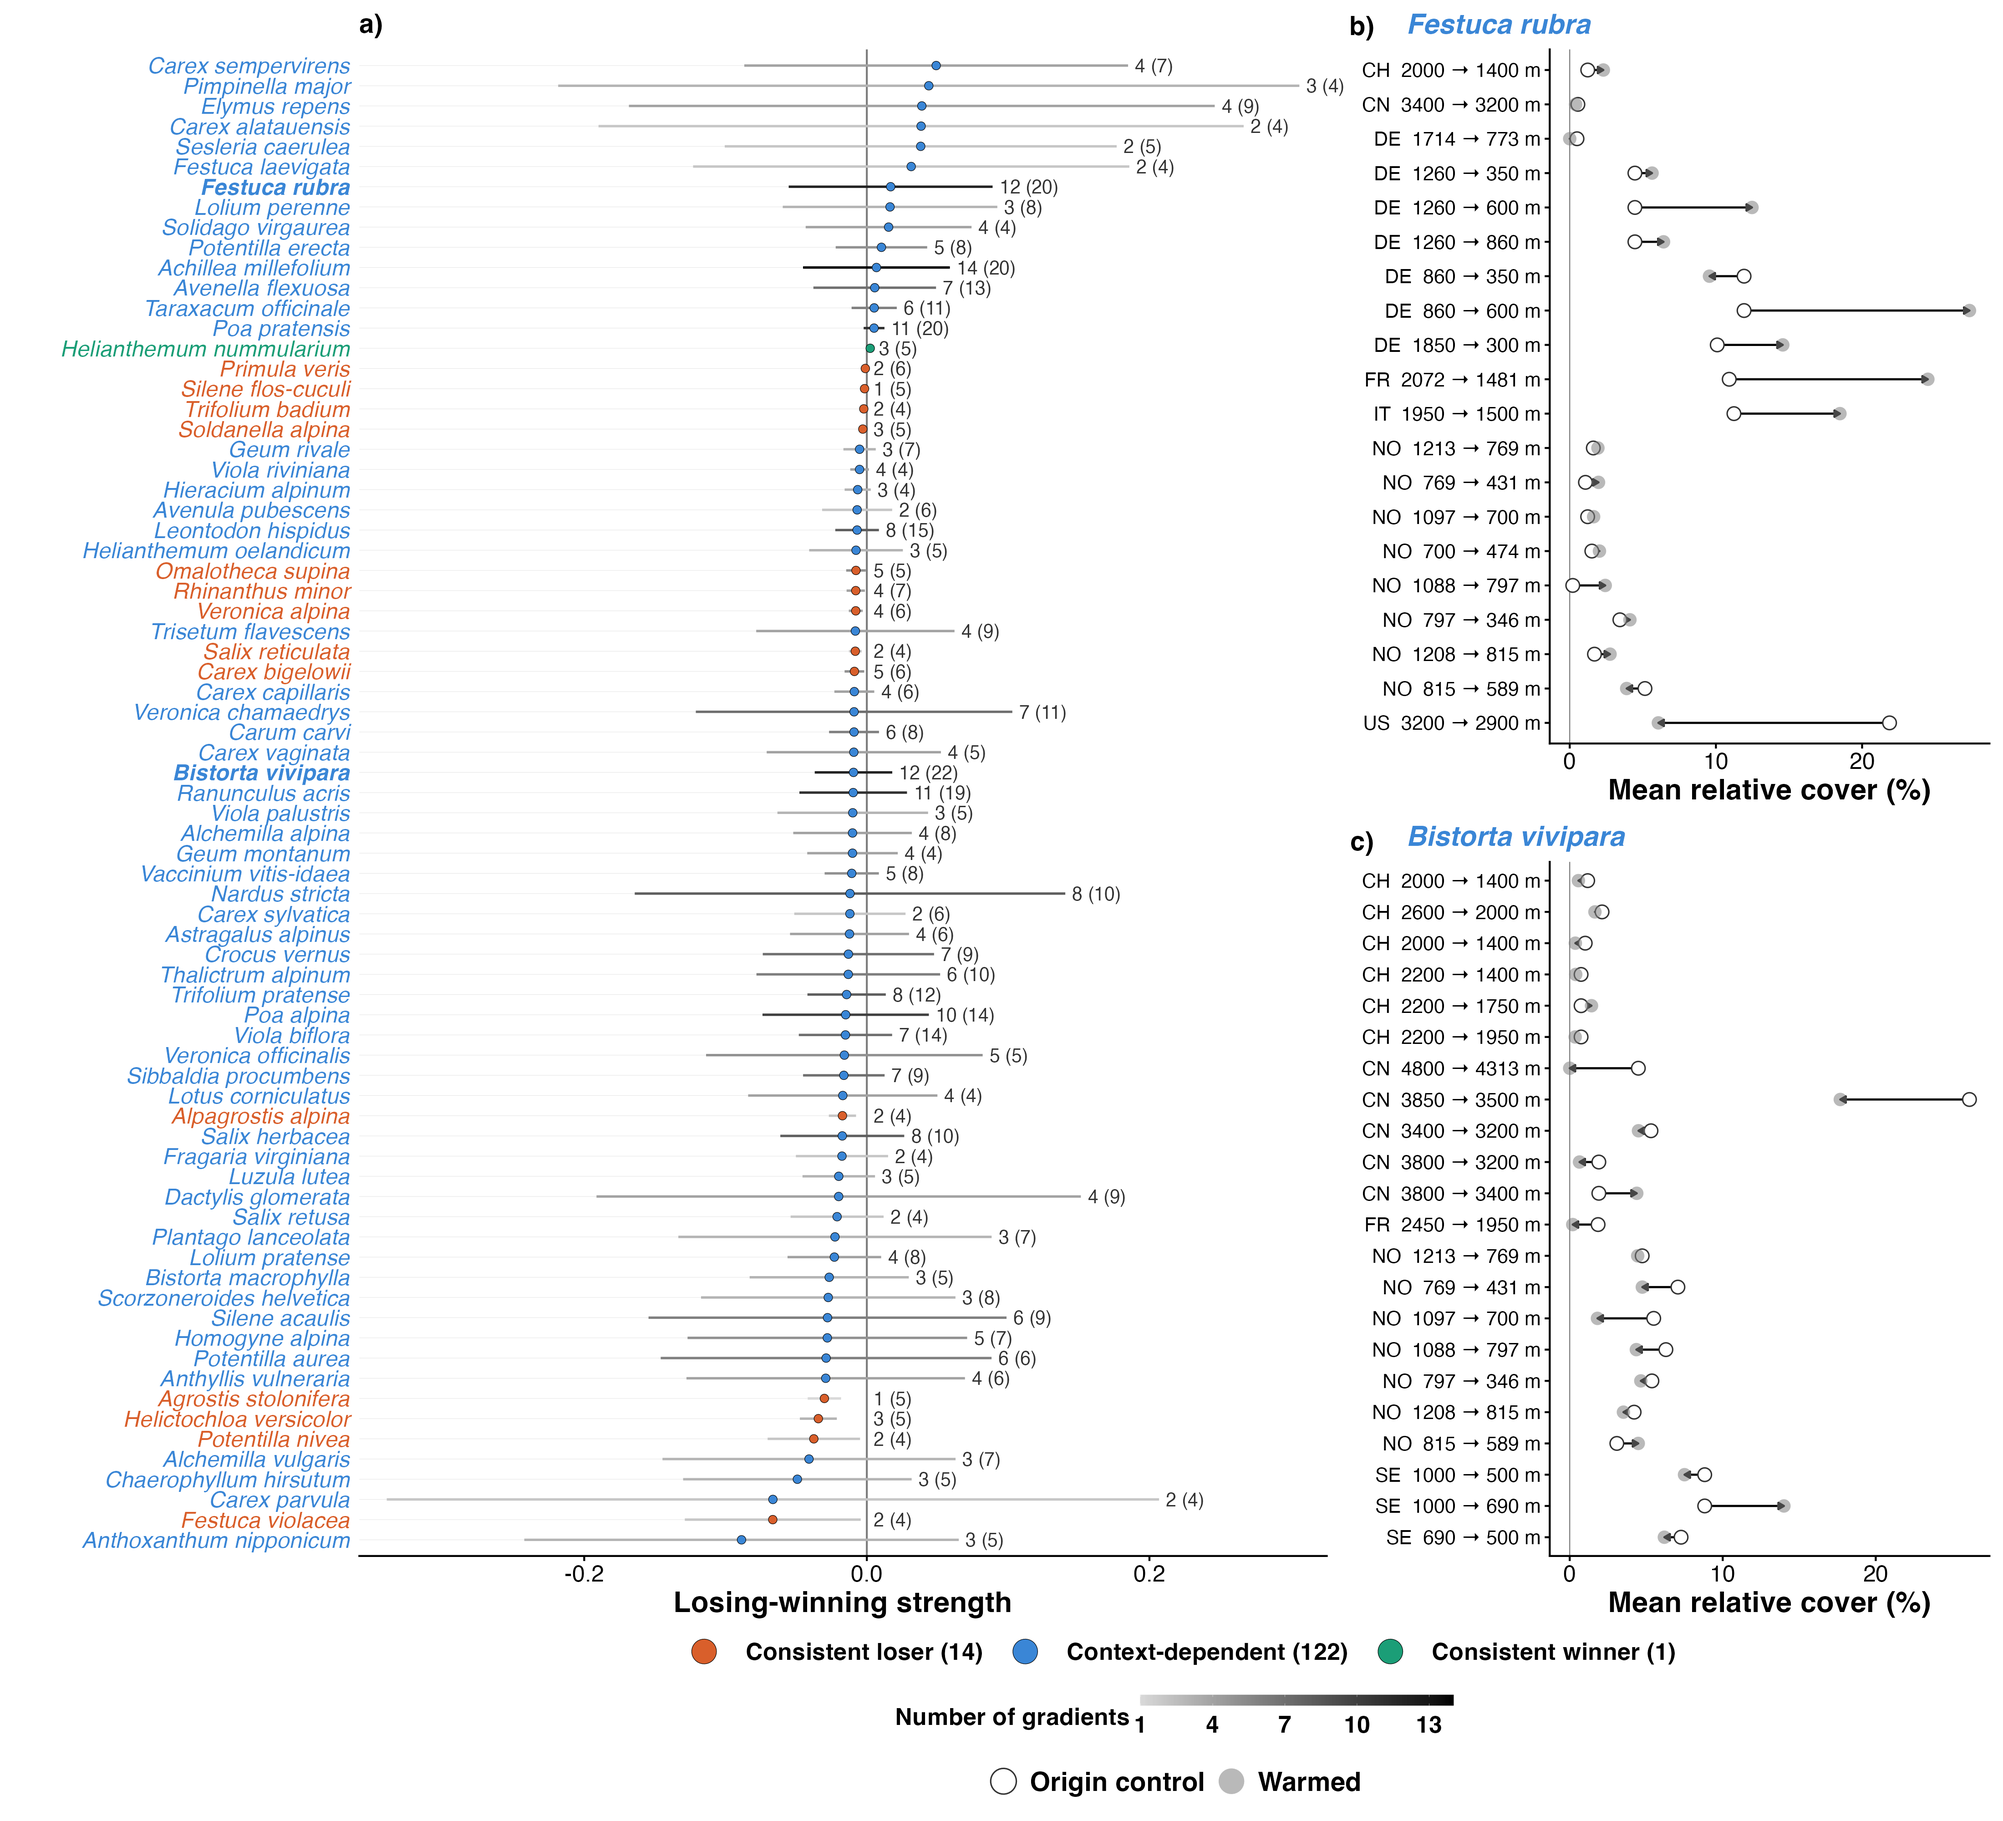
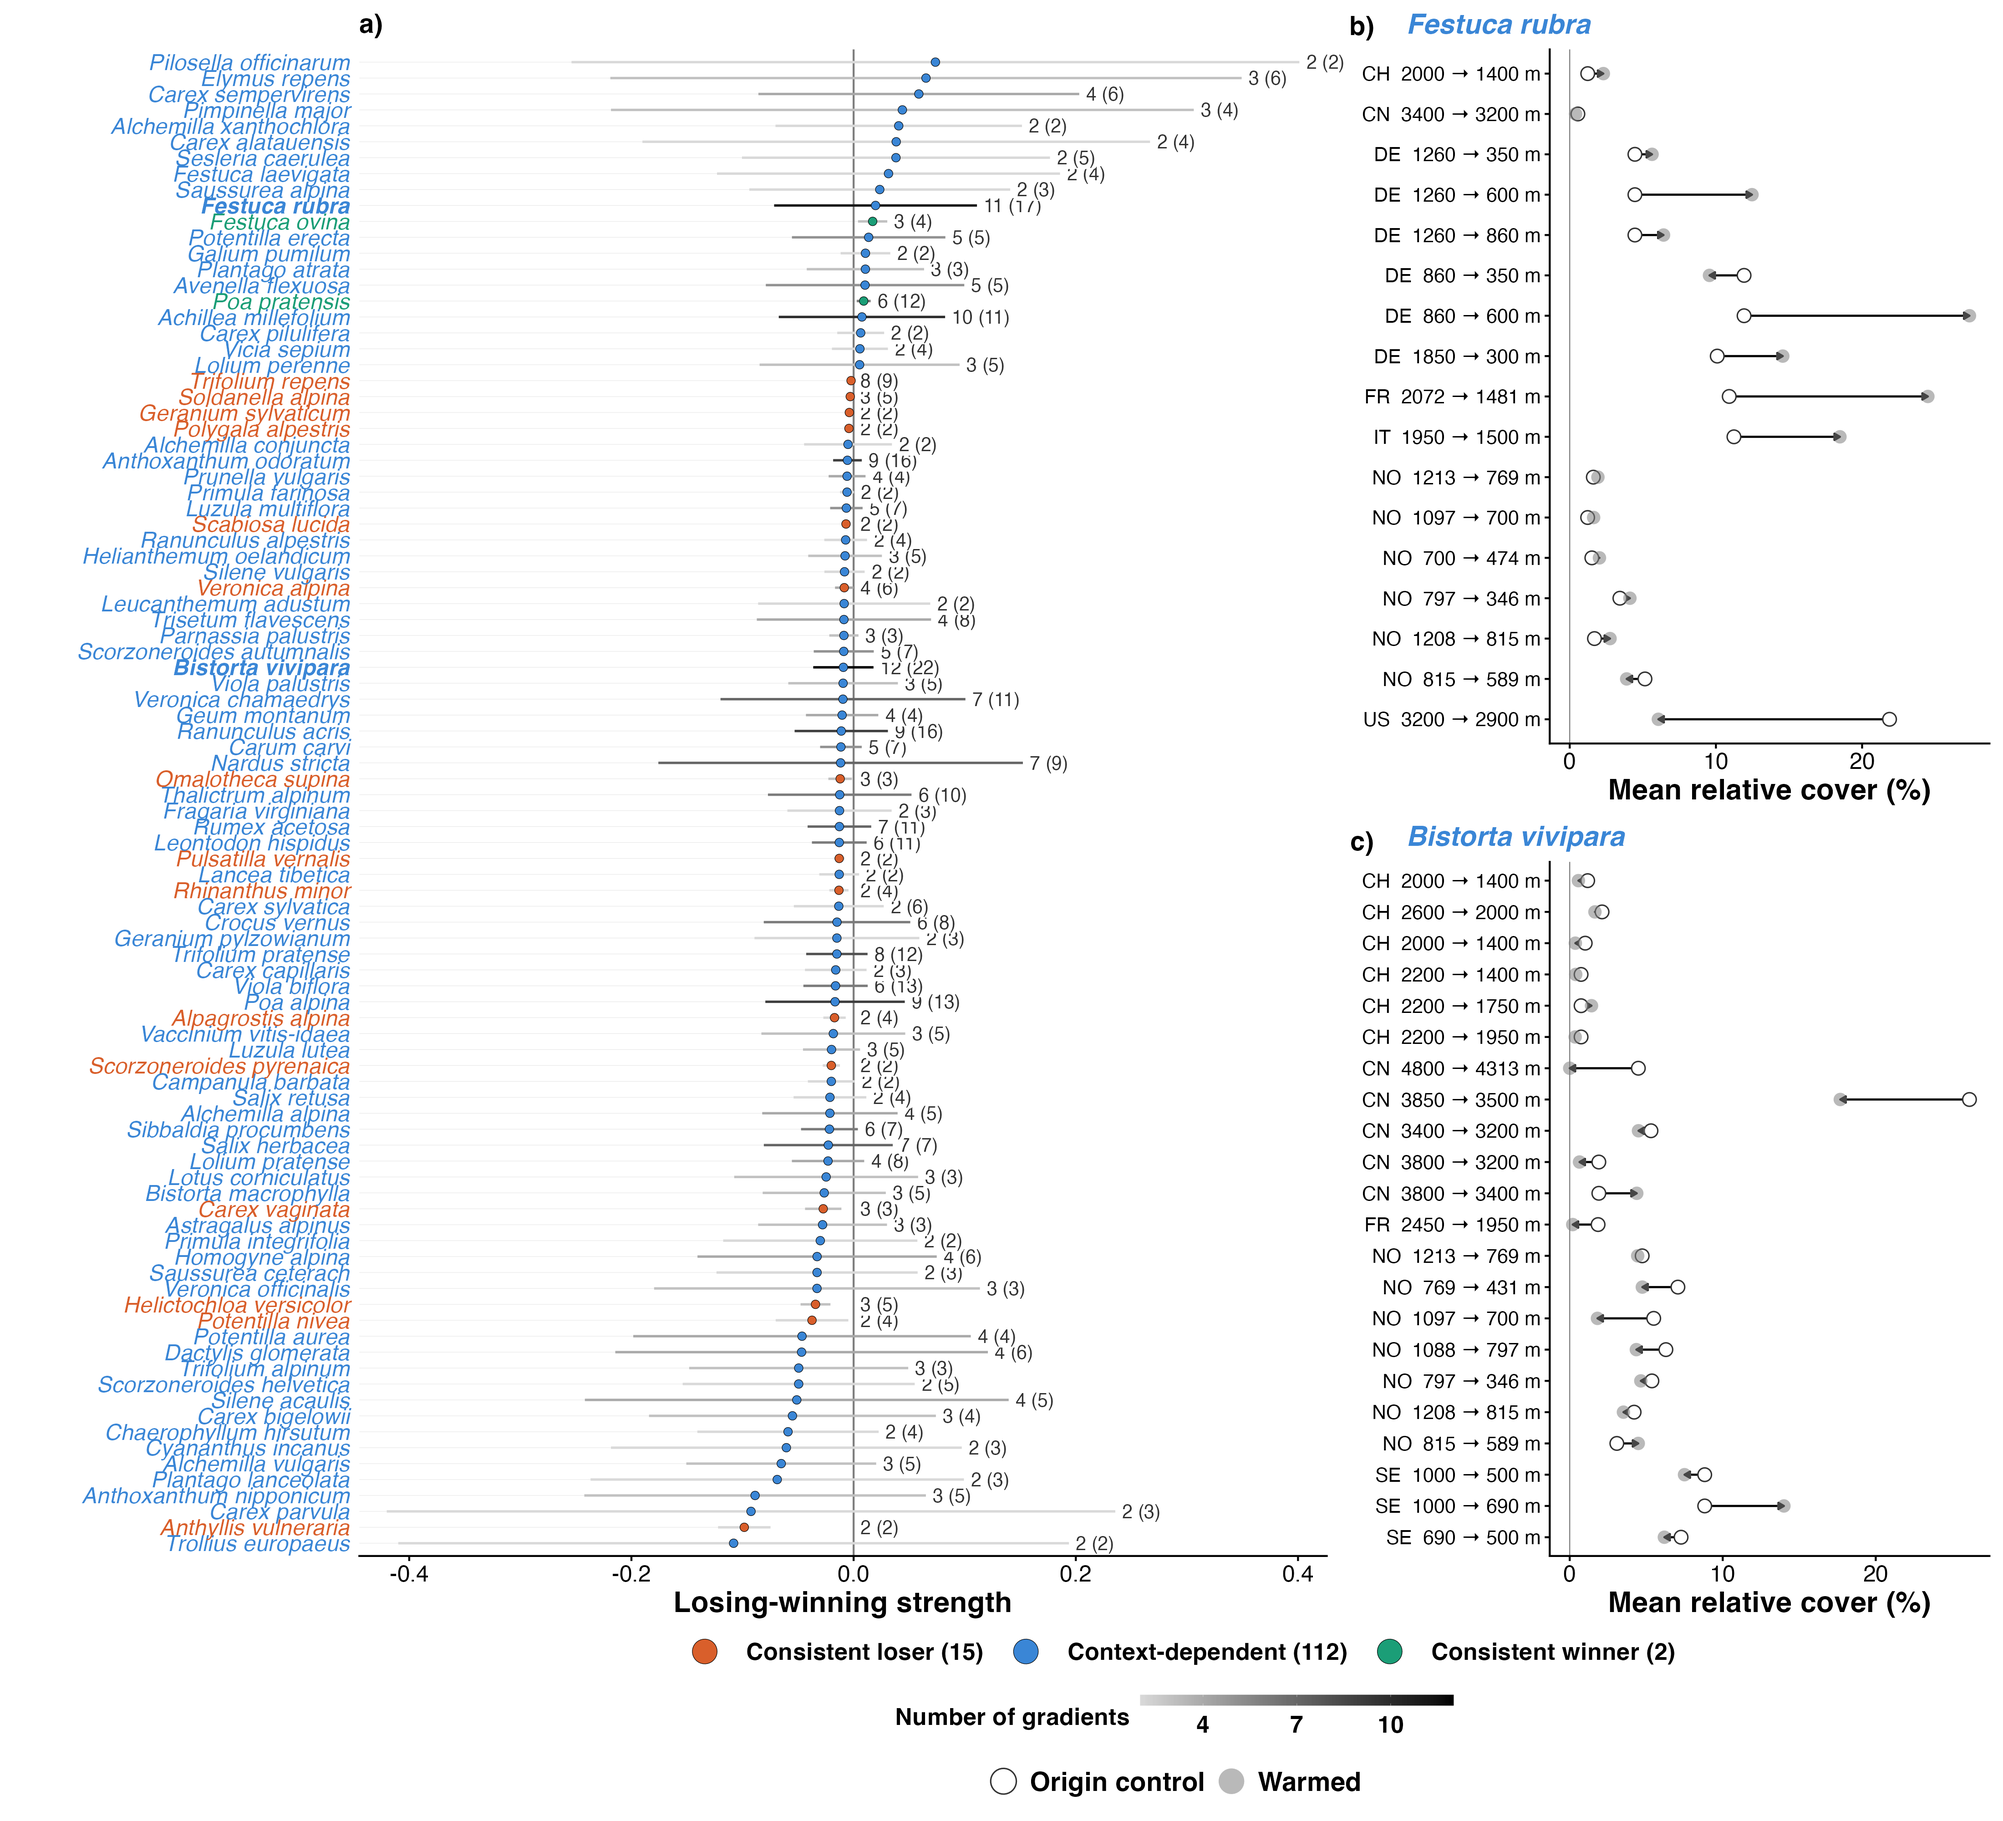
step 04: classification on species in at least 2 gradients (129 species, 676 effects): 15 consistent losers, 2 consistent winners, 112 context-dependent; awaiting review

diff --git a/reports/04_classification.md b/reports/04_classification.md
@@ -1,6 +1,6 @@
 # Step 04: Consistency across experiments (Step C, residents)
 
-For the 137 resident species found in at least four experiments (998 effects in 43 experiments), one `rma.mv` estimated a pooled losing-winning strength per species and a species-specific among-experiment variance, on the strength from year 3 (step 03b). Each species' prediction interval for a new experiment, which carries both its among-experiment variance and the uncertainty of its pooled strength, places it as a consistent winner (interval above zero), a consistent loser (below zero) or context-dependent (spanning zero).
+For the 129 resident species found in at least two gradients (676 effects in 42 experiments), one `rma.mv` estimated a pooled losing-winning strength per species and a species-specific among-experiment variance, on the strength from year 3 (step 03b). Each species' prediction interval for a new experiment, which carries both its among-experiment variance and the uncertainty of its pooled strength, places it as a consistent winner (interval above zero), a consistent loser (below zero) or context-dependent (spanning zero).
 
 ## Model as fitted (for reviewers)
 
@@ -17,52 +17,53 @@ p <- predict(m_s)
 
 | rule | n |
 | --- | --- |
-| effects (step 03b) | 1,655 |
-| species with >= 4 experiments | 137 |
-| their effects | 998 |
-| experiments they occur in | 43 |
-| species with tau2_s estimated at about 0 (< 1e-8) | 40 |
+| effects (step 03b) | 1,004 |
+| species in >= 2 gradients | 129 |
+| their effects | 676 |
+| experiments they occur in | 42 |
+| species with tau2_s estimated at about 0 (< 1e-8) | 31 |
 
 ## Classes
 
 | class | species |
 | --- | --- |
-| Consistent loser | 14 |
-| Context-dependent | 122 |
-| Consistent winner | 1 |
+| Consistent loser | 15 |
+| Context-dependent | 112 |
+| Consistent winner | 2 |
 
 Consistent winners and losers:
 
 | species | class | n_experiments | mu | se_mu | tau | lower | upper |
 | --- | --- | --- | --- | --- | --- | --- | --- |
-| Festuca violacea | Consistent loser | 4 | -0.0666 | 0.0164 | 0.0272 | -0.1288 | -0.0043 |
-| Potentilla nivea | Consistent loser | 4 | -0.0375 | 0.0094 | 0.0138 | -0.0702 | -0.0048 |
-| Helictochloa versicolor | Consistent loser | 5 | -0.0343 | 0.0058 | 0.0033 | -0.0474 | -0.0212 |
-| Agrostis stolonifera | Consistent loser | 5 | -0.0300 | 0.0060 | 0.0000 | -0.0418 | -0.0182 |
-| Alpagrostis alpina | Consistent loser | 4 | -0.0173 | 0.0042 | 0.0026 | -0.0269 | -0.0076 |
-| Carex bigelowii | Consistent loser | 6 | -0.0088 | 0.0035 | 0.0000 | -0.0157 | -0.0018 |
-| Salix reticulata | Consistent loser | 4 | -0.0082 | 0.0023 | 0.0000 | -0.0127 | -0.0037 |
-| Veronica alpina | Consistent loser | 6 | -0.0078 | 0.0025 | 0.0000 | -0.0128 | -0.0029 |
-| Rhinanthus minor | Consistent loser | 7 | -0.0078 | 0.0028 | 0.0018 | -0.0143 | -0.0013 |
-| Omalotheca supina | Consistent loser | 5 | -0.0077 | 0.0029 | 0.0020 | -0.0146 | -0.0008 |
-| Soldanella alpina | Consistent loser | 5 | -0.0028 | 0.0007 | 0.0000 | -0.0041 | -0.0015 |
-| Trifolium badium | Consistent loser | 4 | -0.0022 | 0.0004 | 0.0000 | -0.0029 | -0.0014 |
-| Silene flos-cuculi | Consistent loser | 5 | -0.0016 | 0.0005 | 0.0000 | -0.0026 | -0.0006 |
-| Primula veris | Consistent loser | 6 | -0.0011 | 0.0003 | 0.0000 | -0.0017 | -0.0004 |
-| Helianthemum nummularium | Consistent winner | 5 | 0.0024 | 0.0007 | 0.0000 | 0.0010 | 0.0038 |
+| Anthyllis vulneraria | Consistent loser | 2 | -0.0984 | 0.0112 | 0.0046 | -0.1220 | -0.0748 |
+| Potentilla nivea | Consistent loser | 4 | -0.0374 | 0.0095 | 0.0137 | -0.0701 | -0.0047 |
+| Helictochloa versicolor | Consistent loser | 5 | -0.0343 | 0.0059 | 0.0036 | -0.0478 | -0.0209 |
+| Carex vaginata | Consistent loser | 3 | -0.0274 | 0.0084 | 0.0000 | -0.0437 | -0.0110 |
+| Scorzoneroides pyrenaica | Consistent loser | 2 | -0.0201 | 0.0039 | 0.0000 | -0.0278 | -0.0123 |
+| Alpagrostis alpina | Consistent loser | 4 | -0.0172 | 0.0042 | 0.0029 | -0.0272 | -0.0071 |
+| Rhinanthus minor | Consistent loser | 4 | -0.0132 | 0.0044 | 0.0000 | -0.0218 | -0.0046 |
+| Pulsatilla vernalis | Consistent loser | 2 | -0.0130 | 0.0024 | 0.0000 | -0.0177 | -0.0082 |
+| Omalotheca supina | Consistent loser | 3 | -0.0121 | 0.0054 | 0.0000 | -0.0227 | -0.0014 |
+| Veronica alpina | Consistent loser | 6 | -0.0084 | 0.0042 | 0.0000 | -0.0167 | -0.0001 |
+| Scabiosa lucida | Consistent loser | 2 | -0.0068 | 0.0021 | 0.0000 | -0.0109 | -0.0028 |
+| Polygala alpestris | Consistent loser | 2 | -0.0042 | 0.0020 | 0.0000 | -0.0082 | -0.0002 |
+| Geranium sylvaticum | Consistent loser | 2 | -0.0039 | 0.0015 | 0.0000 | -0.0068 | -0.0009 |
+| Soldanella alpina | Consistent loser | 5 | -0.0030 | 0.0007 | 0.0000 | -0.0045 | -0.0016 |
+| Trifolium repens | Consistent loser | 9 | -0.0023 | 0.0007 | 0.0000 | -0.0037 | -0.0009 |
+| Poa pratensis | Consistent winner | 12 | 0.0091 | 0.0032 | 0.0000 | 0.0028 | 0.0153 |
+| Festuca ovina | Consistent winner | 4 | 0.0171 | 0.0067 | 0.0000 | 0.0040 | 0.0303 |
 
-Species with tau2_s at about zero (their interval is the uncertainty of the mean alone): Agrostis stolonifera, Alchemilla conjuncta, Alopecurus pratensis, Androsace septentrionalis, Bartsia alpina, Campanula rotundifolia, Carex bigelowii, Carex myosuroides, Carex norvegica, Centaurea jacea, Cerastium fontanum, Dactylorhiza viridis, Empetrum nigrum, Euphrasia minima, Festuca halleri, Fragaria virginiana, Gentiana nivalis, Gentianella campestris, Helianthemum nummularium, Hieracium alpinum, Kalmia procumbens, Leucanthemum ircutianum, Luzula spicata, Oreojuncus trifidus, Phleum alpinum, Pinguicula vulgaris, Primula veris, Prunella vulgaris, Ranunculus brotherusii, Rumex acetosa, Salix reticulata, Silene dioica, Silene flos-cuculi, Soldanella alpina, Thesium alpinum, Trifolium badium, Vaccinium uliginosum, Veronica alpina, Vicia cracca, Viola riviniana.
+Species with tau2_s at about zero (their interval is the uncertainty of the mean alone): Campanula rotundifolia, Carex myosuroides, Carex norvegica, Carex pilulifera, Carex vaginata, Carlina acaulis, Cerastium fontanum, Euphrasia minima, Euphrasia salisburgensis, Festuca ovina, Fragaria virginiana, Geranium sylvaticum, Leucanthemopsis alpina, Myosotis alpestris, Omalotheca supina, Parnassia palustris, Poa pratensis, Polygala alpestris, Pulsatilla vernalis, Rhinanthus minor, Scabiosa lucida, Scorzoneroides pyrenaica, Silene vulgaris, Soldanella alpina, Taraxacum mongolicum, Thesium alpinum, Trifolium repens, Veronica alpina, Veronica aphylla, Veronica serpyllifolia, Viola riviniana.
 
 ## Fig 2
 
 ![Fig 2](../figures/main/fig2.png)
 
-Fig 2 b) and c): Festuca rubra and Bistorta vivipara, the highest and lowest pooled strength among species in at least 12 gradients; one row per experiment (country, origin to destination elevation), mean relative cover over years 3 and later in origin controls (hollow) and warmed plots (filled).
-Fig 2 a): point = pooled strength, filled by class; line = 95% interval including the variation among experiments (a line that does not cross zero marks a consistent loser or winner), shaded by the number of gradients and labelled gradients (experiments). 63 context-dependent species with a pooled strength between -0.005 and +0.005 are not shown.
+Fig 2 b) and c): Festuca rubra and Bistorta vivipara, the highest and lowest pooled strength among species in at least 11 gradients; one row per experiment (country, origin to destination elevation), mean relative cover over years 3 and later in origin controls (hollow) and warmed plots (filled).
+Fig 2 a): point = pooled strength, filled by class; line = 95% interval including the variation among experiments (a line that does not cross zero marks a consistent loser or winner), shaded by the number of gradients and labelled gradients (experiments). 35 context-dependent species with a pooled strength between -0.005 and +0.005 are not shown.
 
 ## Warnings captured
 
-- Refitted with the bobyqa optimizer after nlminb did not declare convergence (tau2_s at 0): Bartsia alpina.
 - The `label.size` argument of `geom_label()` is deprecated as of ggplot2 3.5.0.
 ℹ Please use the `linewidth` argument instead.
 
